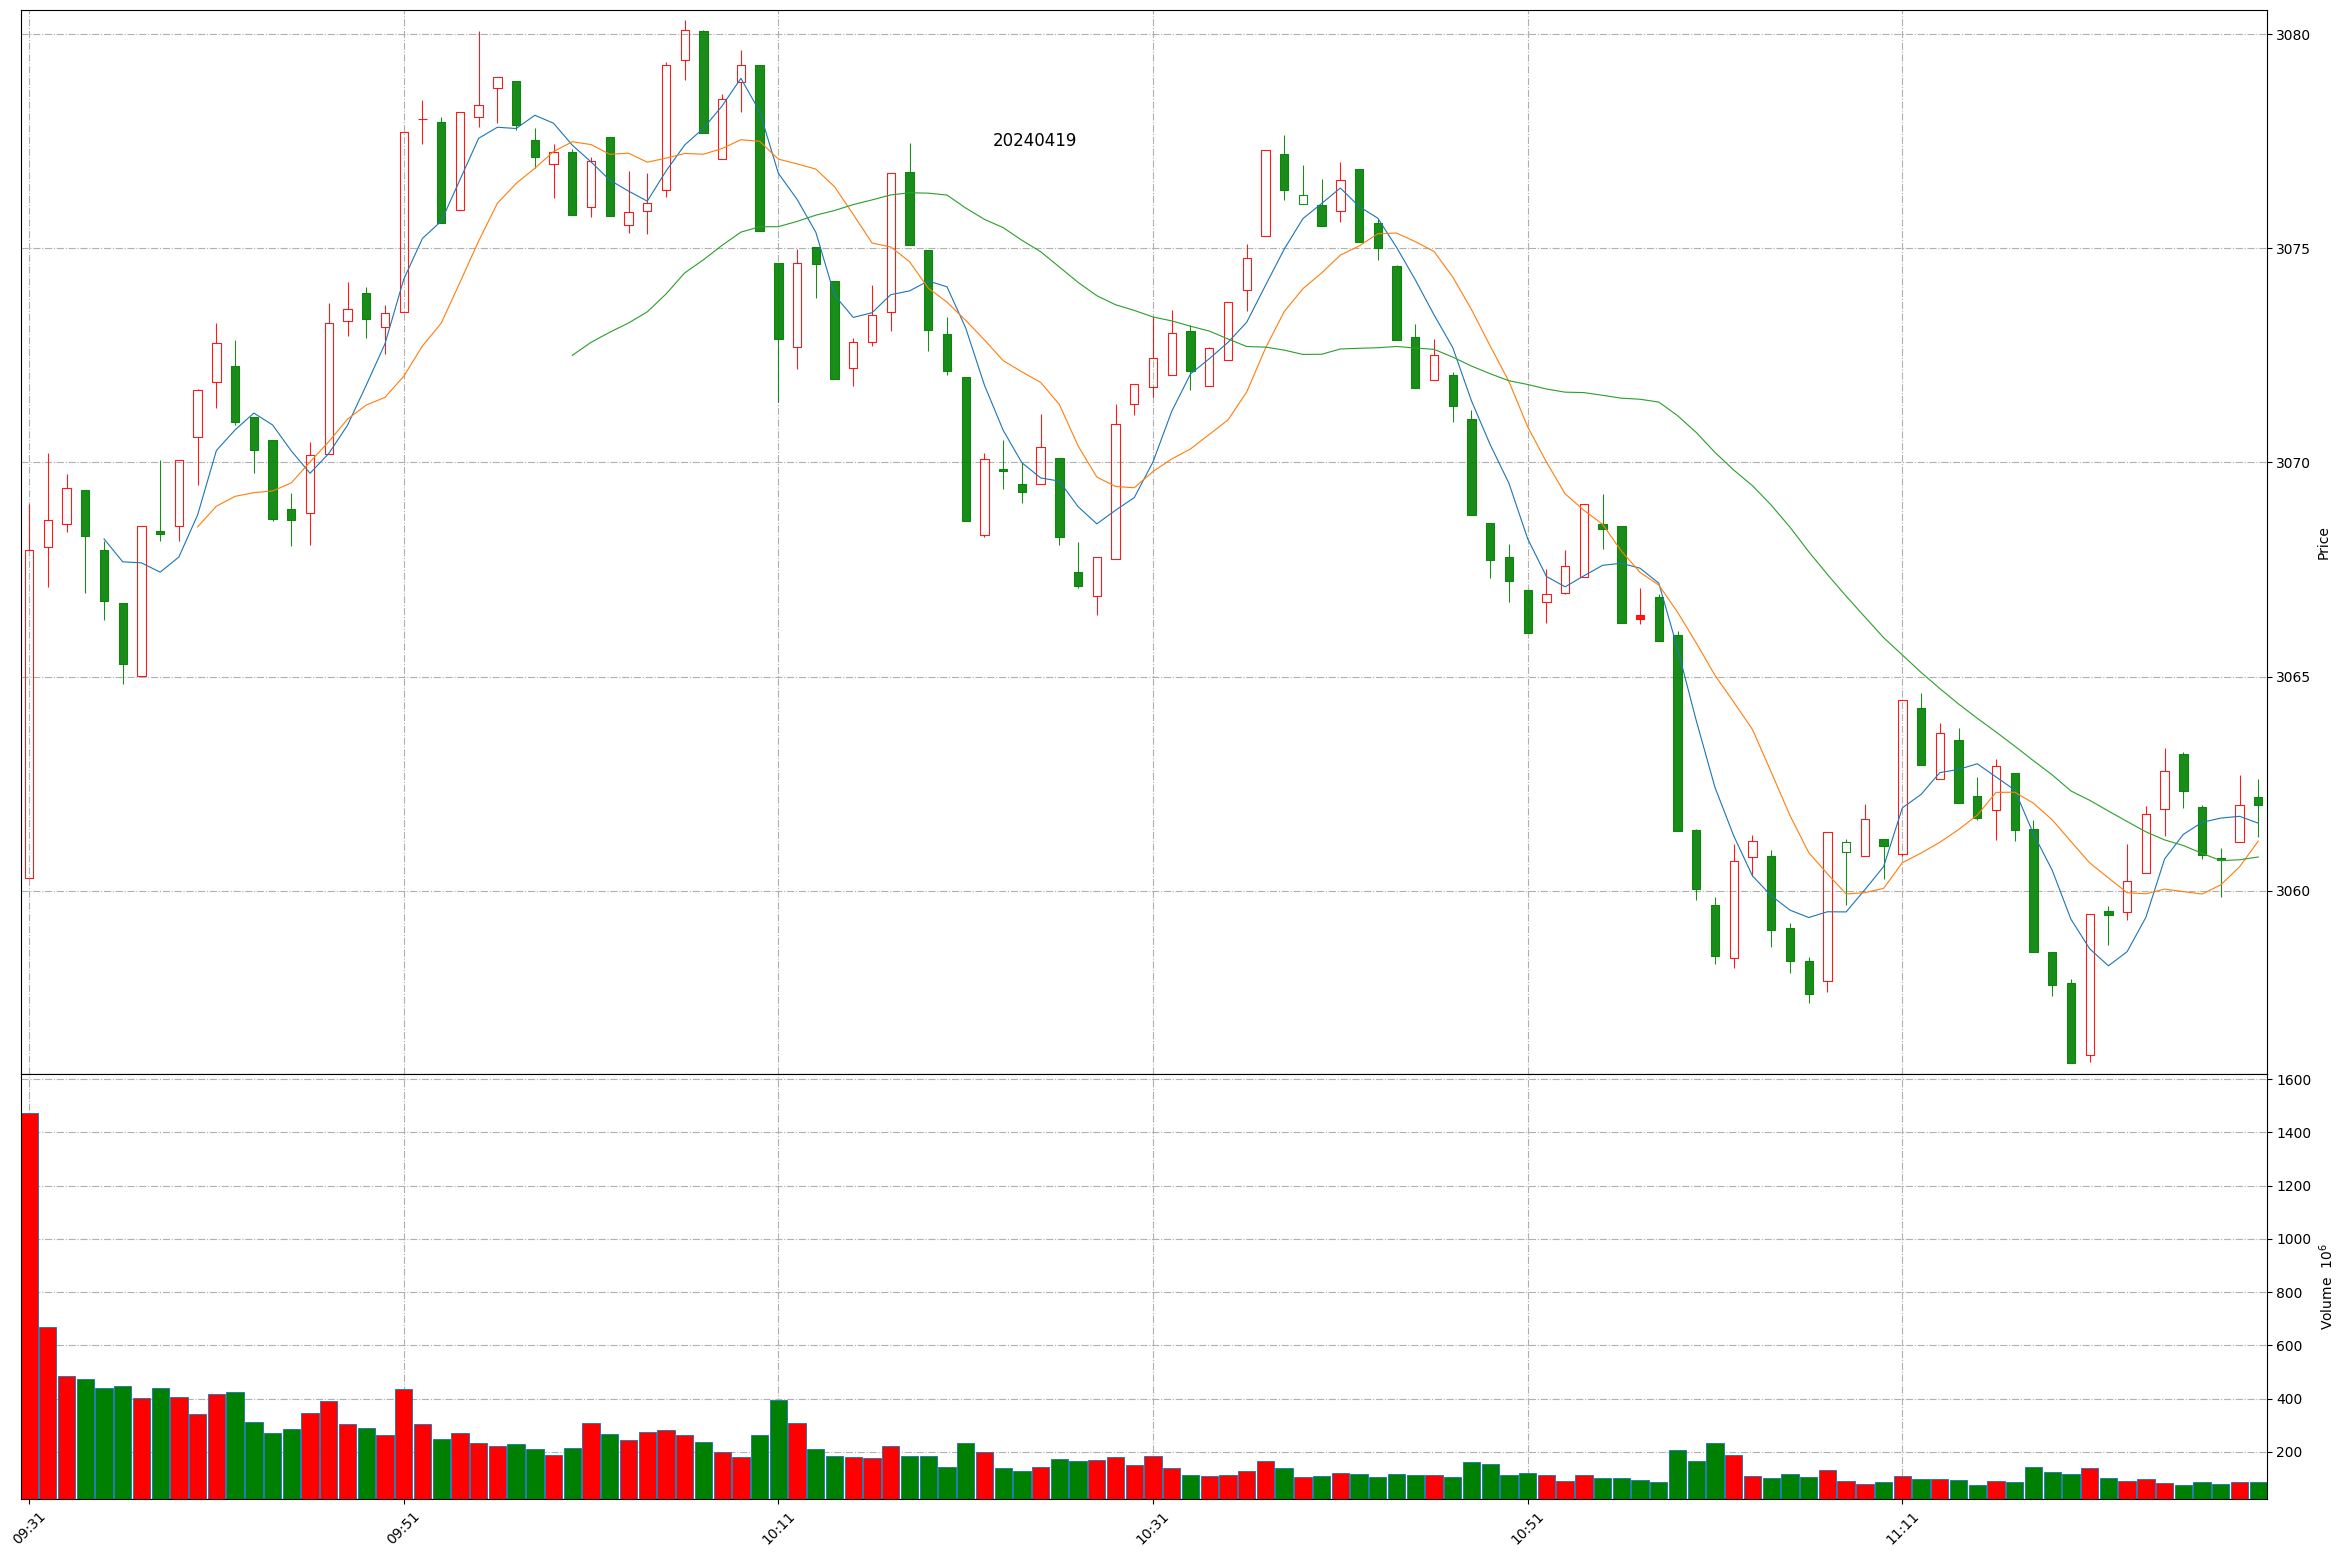
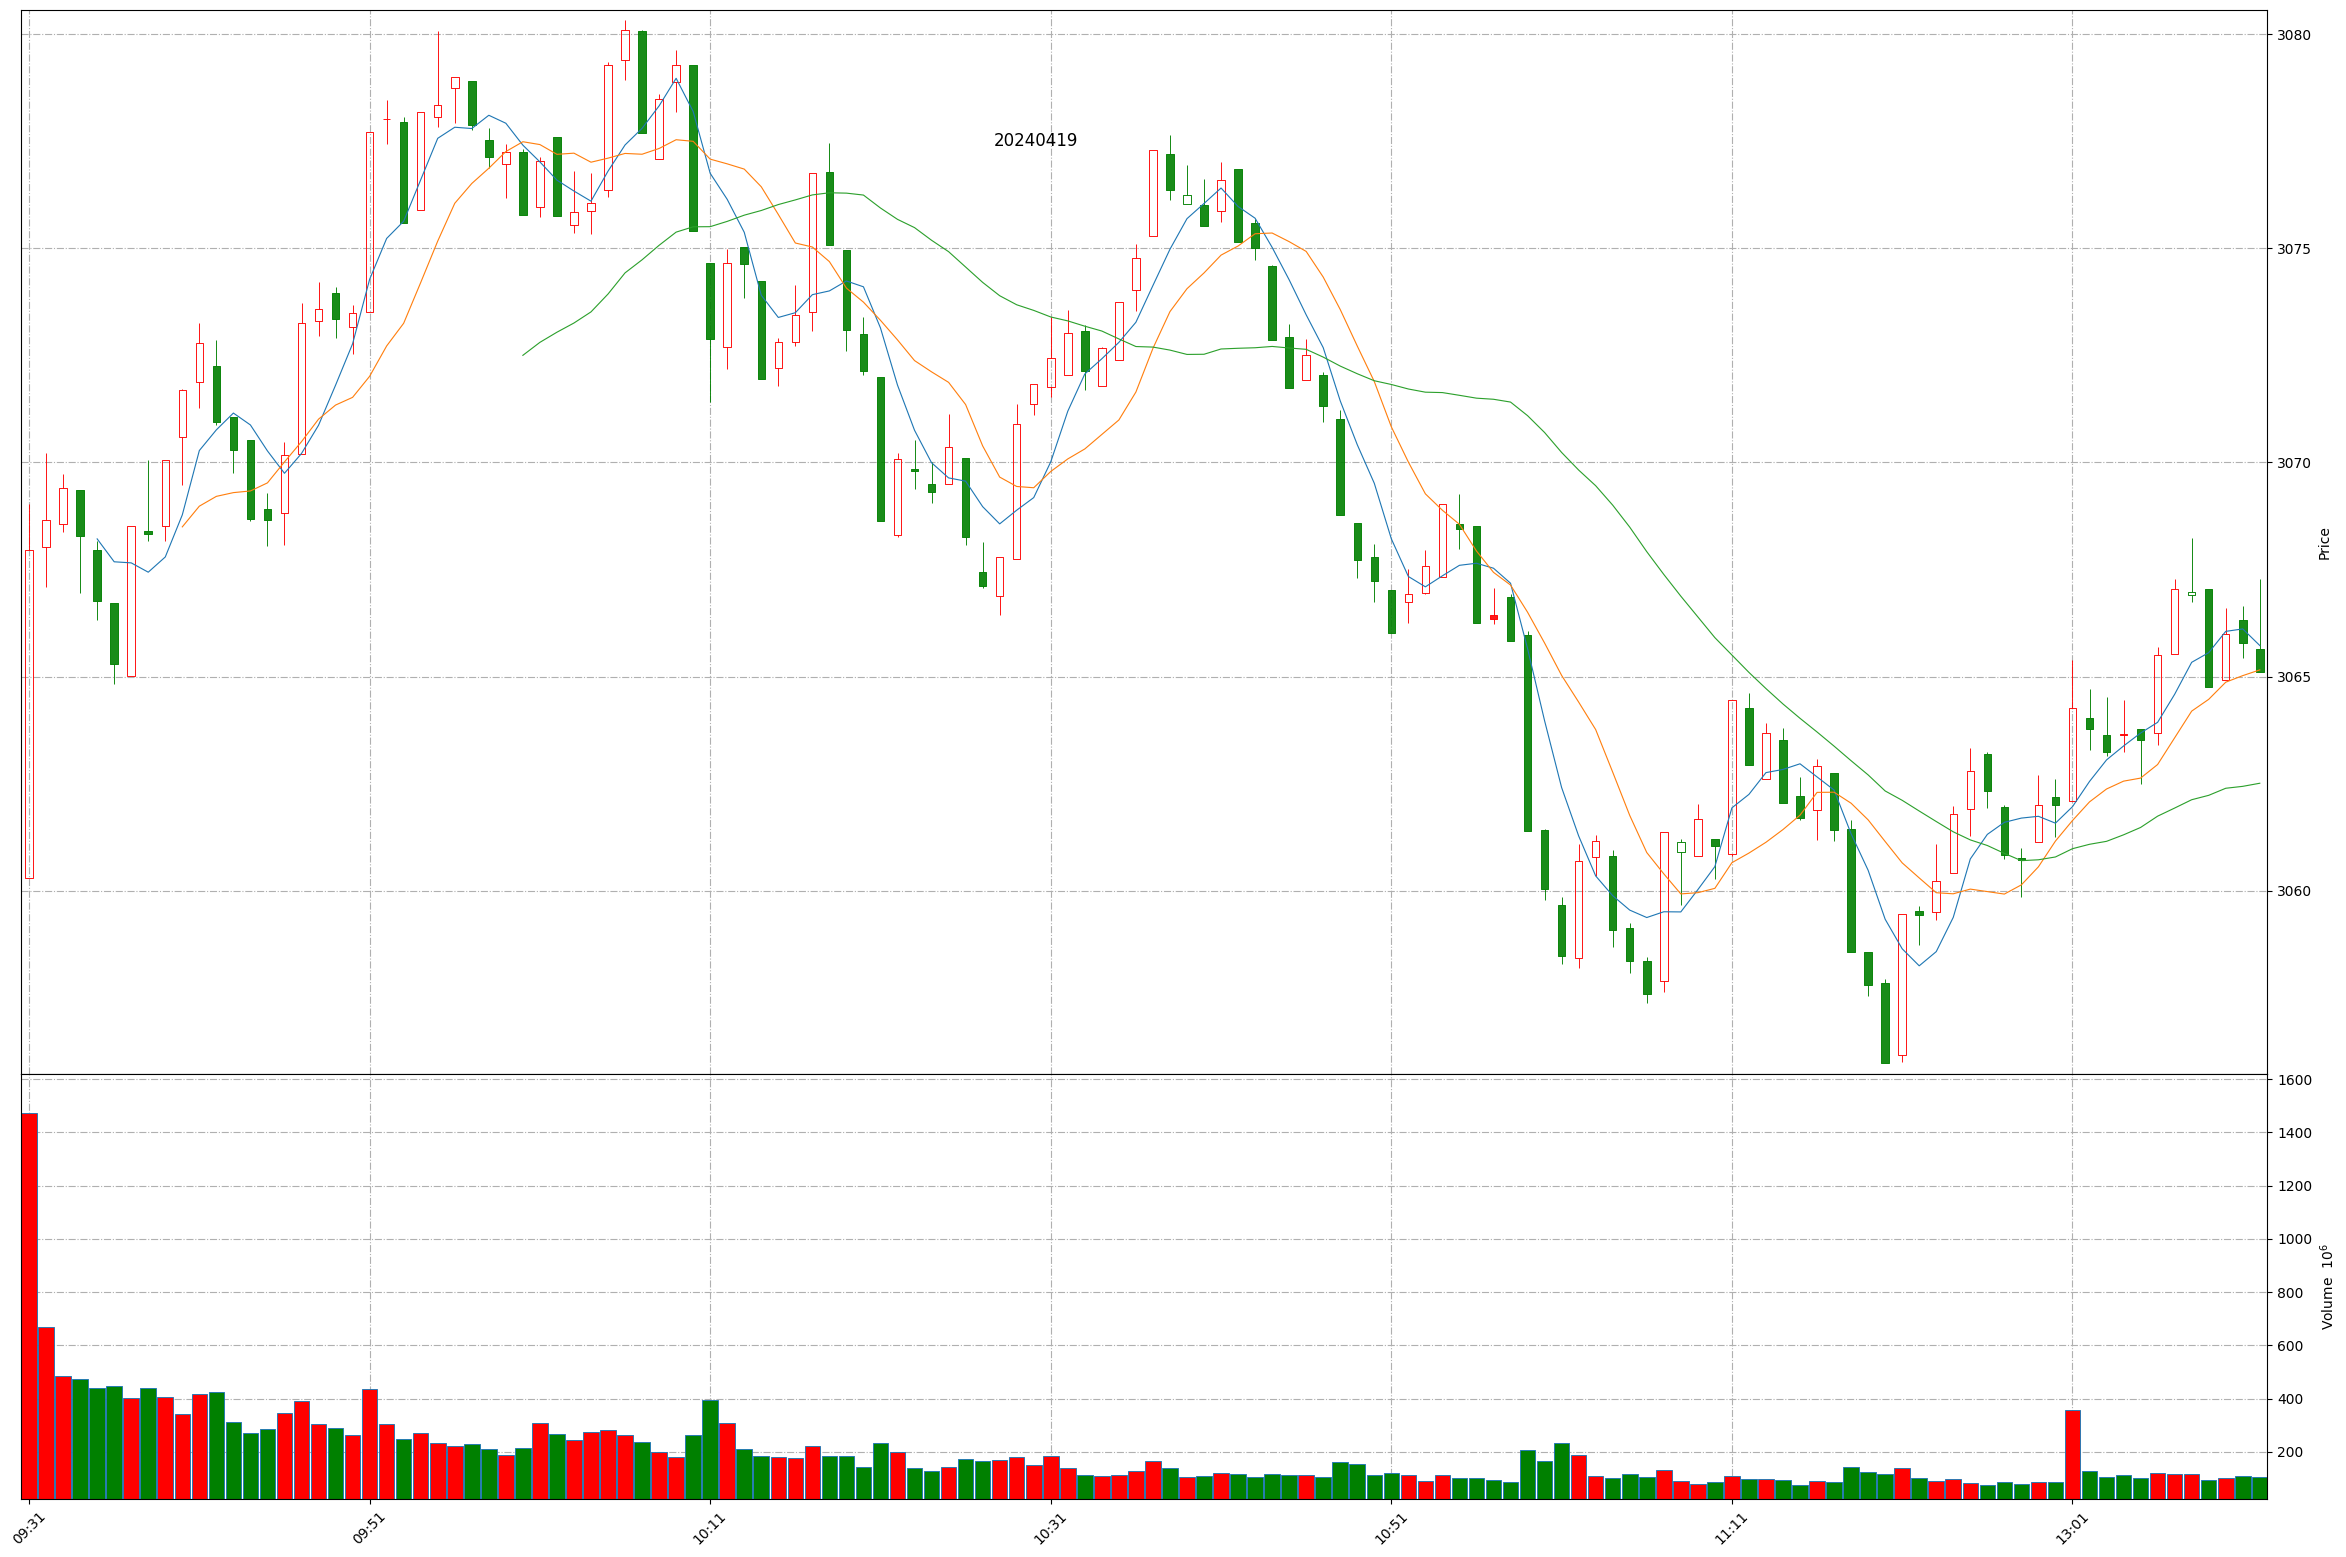
Github action update at 2024-04-19 13:12:20.

diff --git a/README.md b/README.md
@@ -1,11 +1,11 @@
 
 # Daily-A-share-market-quotes 每日 A 股指数（5min 更新）- 20240419
 
-### 上证指数 20240419 11:36
+### 上证指数 20240419 13:12
 ![](./fig/2024/4/20240419-sh000001.png)
 
-### 深证成指 20240419 11:36
+### 深证成指 20240419 13:12
 ![](./fig/2024/4/20240419-sz399001.png)
 
-### 北证50 20240419 11:36
+### 北证50 20240419 13:12
 ![](./fig/2024/4/20240419-bj899050.png)
